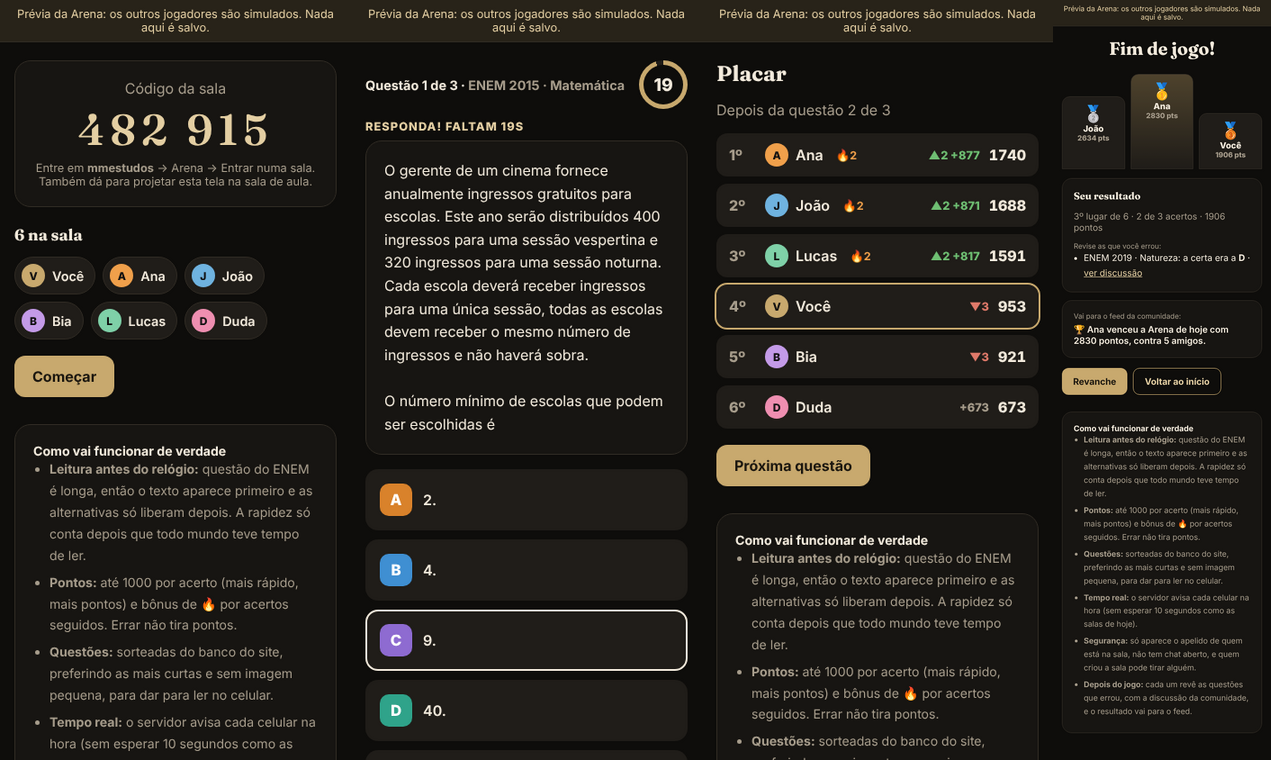
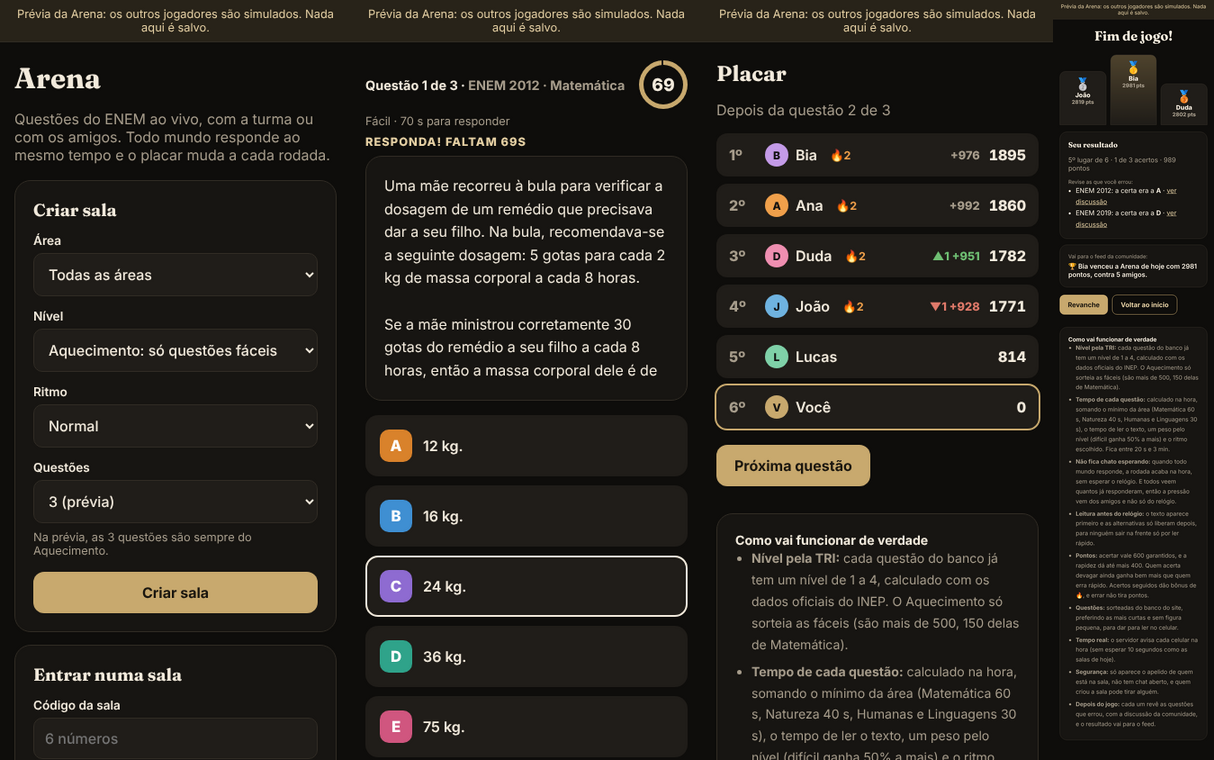
Prévia da Arena: nível da sala e tempo calculado por questão
Matemática não cabe em 20 s. Cada questão ganha o mínimo da área, o tempo de
leitura do texto, um peso pelo nível da TRI e o ritmo escolhido (entre 20 s e
3 min); a sala escolhe o nível (Aquecimento só sorteia as fáceis). Acertar
vale 600 garantidos e a rapidez até 400, e a rodada termina quando todos
respondem.

Claude-Session: https://claude.ai/code/session_01MWXuw9pU2khdgNZApLfixD

diff --git a/previa-arena.html b/previa-arena.html
@@ -44,6 +44,9 @@
     background: conic-gradient(var(--marca) calc(var(--p) * 1%), var(--superficie-2) 0); position: relative; }
   .relogio::before { content: ''; position: absolute; inset: 5px; border-radius: 50%; background: var(--fundo); }
   .relogio span { position: relative; }
+  .relogio.acabando { background: conic-gradient(var(--ruim) calc(var(--p) * 1%), var(--superficie-2) 0); animation: pulsa 1s infinite; }
+  .relogio.acabando span { color: var(--ruim); }
+  @keyframes pulsa { 50% { transform: scale(1.08); } }
   .fase { font-size: .8rem; text-transform: uppercase; letter-spacing: .08em; color: var(--marca-texto); font-weight: 800; }
   .enunciado { line-height: 1.6; white-space: pre-wrap; }
   .alts { display: grid; gap: 10px; margin-top: 16px; }
@@ -95,8 +98,21 @@
         <h2 style="font-size:1.2rem">Criar sala</h2>
         <label class="campo" for="area">Área</label>
         <select id="area"><option>Todas as áreas</option><option>Linguagens</option><option>Ciências Humanas</option><option>Ciências da Natureza</option><option>Matemática</option></select>
+        <label class="campo" for="nivel">Nível</label>
+        <select id="nivel">
+          <option value="aquecimento">Aquecimento: só questões fáceis</option>
+          <option value="normal">Normal: fáceis e médias</option>
+          <option value="desafio">Desafio: médias e difíceis</option>
+        </select>
+        <label class="campo" for="ritmo">Ritmo</label>
+        <select id="ritmo">
+          <option value="tranquilo">Tranquilo: 50% mais tempo</option>
+          <option value="normal" selected>Normal</option>
+          <option value="relampago">Relâmpago: menos tempo, mais pressão</option>
+        </select>
         <label class="campo" for="qtd">Questões</label>
         <select id="qtd"><option>3 (prévia)</option><option>5</option><option>10</option></select>
+        <p class="fraco pequeno" style="margin:8px 0 0">Na prévia, as 3 questões são sempre do Aquecimento.</p>
         <button class="botao" style="width:100%;margin-top:16px" onclick="criarSala()">Criar sala</button>
       </div>
       <div class="cartao">
@@ -127,6 +143,7 @@
       <span>Questão <span id="q-num">1</span> de <span id="q-tot">3</span> · <span class="fraco" id="q-orig"></span></span>
       <div class="relogio" id="relogio" style="--p:100"><span id="segundos">20</span></div>
     </div>
+    <div class="fraco pequeno" id="q-nivel" style="margin:-6px 0 8px"></div>
     <div class="fase" id="fase">Leitura</div>
     <div class="cartao" style="margin-top:8px"><div class="enunciado" id="enunciado"></div></div>
     <div class="alts" id="alts"></div>
@@ -164,9 +181,12 @@
   <div class="notas cartao" style="margin-top:30px">
     <b>Como vai funcionar de verdade</b>
     <ul class="lista fraco">
-      <li><b>Leitura antes do relógio:</b> questão do ENEM é longa, então o texto aparece primeiro e as alternativas só liberam depois. A rapidez só conta depois que todo mundo teve tempo de ler.</li>
-      <li><b>Pontos:</b> até 1000 por acerto (mais rápido, mais pontos) e bônus de 🔥 por acertos seguidos. Errar não tira pontos.</li>
-      <li><b>Questões:</b> sorteadas do banco do site, preferindo as mais curtas e sem imagem pequena, para dar para ler no celular.</li>
+      <li><b>Nível pela TRI:</b> cada questão do banco já tem um nível de 1 a 4, calculado com os dados oficiais do INEP. O Aquecimento só sorteia as fáceis (são mais de 500, 150 delas de Matemática).</li>
+      <li><b>Tempo de cada questão:</b> calculado na hora, somando o mínimo da área (Matemática 60 s, Natureza 40 s, Humanas e Linguagens 30 s), o tempo de ler o texto, um peso pelo nível (difícil ganha 50% a mais) e o ritmo escolhido. Fica entre 20 s e 3 min.</li>
+      <li><b>Não fica chato esperando:</b> quando todo mundo responde, a rodada acaba na hora, sem esperar o relógio. E todos veem quantos já responderam, então a pressão vem dos amigos e não só do relógio.</li>
+      <li><b>Leitura antes do relógio:</b> o texto aparece primeiro e as alternativas só liberam depois, para ninguém sair na frente só por ler rápido.</li>
+      <li><b>Pontos:</b> acertar vale 600 garantidos, e a rapidez dá até mais 400. Quem acerta devagar ainda ganha bem mais que quem erra rápido. Acertos seguidos dão bônus de 🔥, e errar não tira pontos.</li>
+      <li><b>Questões:</b> sorteadas do banco do site, preferindo as mais curtas e sem figura pequena, para dar para ler no celular.</li>
       <li><b>Tempo real:</b> o servidor avisa cada celular na hora (sem esperar 10 segundos como as salas de hoje).</li>
       <li><b>Segurança:</b> só aparece o apelido de quem está na sala, não tem chat aberto, e quem criou a sala pode tirar alguém.</li>
       <li><b>Depois do jogo:</b> cada um revê as questões que errou, com a discussão da comunidade, e o resultado vai para o feed.</li>
@@ -178,22 +198,37 @@
 const LETRAS = ['A', 'B', 'C', 'D', 'E'];
 const CORES = ['var(--a)', 'var(--b)', 'var(--c)', 'var(--d)', 'var(--e)'];
 const QUESTOES = [
-  { origem: 'ENEM 2015 · Matemática', correta: 2,
-    texto: 'O gerente de um cinema fornece anualmente ingressos gratuitos para escolas. Este ano serão distribuídos 400 ingressos para uma sessão vespertina e 320 ingressos para uma sessão noturna. Cada escola deverá receber ingressos para uma única sessão, todas as escolas devem receber o mesmo número de ingressos e não haverá sobra.\n\nO número mínimo de escolas que podem ser escolhidas é',
-    alts: ['2.', '4.', '9.', '40.', '80.'] },
-  { origem: 'ENEM 2019 · Natureza', correta: 3,
+  { origem: 'ENEM 2012', area: 'matematica', nivel: 1, correta: 0,
+    texto: 'Uma mãe recorreu à bula para verificar a dosagem de um remédio que precisava dar a seu filho. Na bula, recomendava-se a seguinte dosagem: 5 gotas para cada 2 kg de massa corporal a cada 8 horas.\n\nSe a mãe ministrou corretamente 30 gotas do remédio a seu filho a cada 8 horas, então a massa corporal dele é de',
+    alts: ['12 kg.', '16 kg.', '24 kg.', '36 kg.', '75 kg.'] },
+  { origem: 'ENEM 2019', area: 'natureza', nivel: 1, correta: 3,
     texto: 'Um alimento orgânico deve apresentar em sua embalagem o selo de uma instituição certificadora, garantindo que, além de ser isento de agrotóxicos, é produzido com técnicas planejadas e controladas.\n\nNesse sistema de produção de alimentos vegetais, o controle de insetos é manejado por meio do(a)',
     alts: ['prática de adubação verde.', 'emprego da compostagem.', 'controle da irrigação do solo.', 'utilização de predadores naturais.', 'uso de sementes inoculadas com Rhizobium.'] },
-  { origem: 'ENEM 2020 · Matemática', correta: 4,
-    texto: 'Um pé de eucalipto rende, em média, 20 mil folhas de papel A4. A densidade superficial do papel A4 é de 75 gramas por metro quadrado, e a área de uma folha é 0,062 metro quadrado.\n\nQuantos quilogramas de papel rende, em média, um pé de eucalipto?',
-    alts: ['4 301', '1 500', '930', '267', '93'] }
+  { origem: 'ENEM 2022', area: 'matematica', nivel: 1, correta: 4,
+    texto: 'Ao escutar a notícia de que um filme recém-lançado arrecadou, no primeiro mês de lançamento, R$ 1,35 bilhão em bilheteria, um estudante escreveu corretamente o número que representa essa quantia, com todos os seus algarismos.\n\nO número escrito pelo estudante foi',
+    alts: ['135 000,00.', '1 350 000,00.', '13 500 000,00.', '135 000 000,00.', '1 350 000 000,00.'] }
 ];
+const AREAS = { linguagens: ['Linguagens', 30], humanas: ['Humanas', 30], natureza: ['Natureza', 40], matematica: ['Matemática', 60] };
+const NIVEIS = { 1: ['Fácil', 1], 2: ['Média', 1.25], 3: ['Difícil', 1.5], 4: ['Muito difícil', 1.75] };
+const RITMOS = { tranquilo: 1.5, normal: 1, relampago: 0.6 };
+
+// Tempo para responder: o mínimo da área (Matemática precisa de conta),
+// mais o tempo de ler o texto, vezes o peso do nível e o ritmo da sala.
+// Arredonda para 5 s e fica entre 20 s e 3 min.
+function tempoDaQuestao(q) {
+  const ritmo = RITMOS[document.getElementById('ritmo').value] || 1;
+  const leitura = (q.texto.length + q.alts.join('').length) / 40;
+  const s = (AREAS[q.area][1] + leitura) * NIVEIS[q.nivel][1] * ritmo;
+  return Math.min(180, Math.max(20, Math.round(s / 5) * 5));
+}
+// Leitura antes das alternativas: o bastante para ler o enunciado.
+const leituraDaQuestao = q => Math.min(15, Math.max(5, Math.round(q.texto.length / 30)));
 const BOTS = [
   { nome: 'Ana', cor: '#f0a04b', acerto: .85, rapidez: .8 }, { nome: 'João', cor: '#6fb3e0', acerto: .7, rapidez: .6 },
   { nome: 'Bia', cor: '#c49be8', acerto: .6, rapidez: .9 }, { nome: 'Lucas', cor: '#7fd1a8', acerto: .5, rapidez: .5 },
   { nome: 'Duda', cor: '#ef8fb1', acerto: .65, rapidez: .4 }
 ];
-const LEITURA = 6, RESPOSTA = 20;
+let tempoRodada = 30;
 let jogadores, rodada, relogio, minhaResposta, inicioResposta, ordemAnterior, erradas;
 
 function mostrar(id) {
@@ -239,13 +274,15 @@ function proximaRodada() {
   jogadores.forEach(j => { j.resposta = null; j.tempo = null; j.ganhou = 0; });
   document.getElementById('q-num').textContent = rodada + 1;
   document.getElementById('q-tot').textContent = QUESTOES.length;
-  document.getElementById('q-orig').textContent = q.origem;
+  tempoRodada = tempoDaQuestao(q);
+  document.getElementById('q-orig').textContent = `${q.origem} · ${AREAS[q.area][0]}`;
+  document.getElementById('q-nivel').textContent = `${NIVEIS[q.nivel][0]} · ${tempoRodada} s para responder`;
   document.getElementById('enunciado').textContent = q.texto;
   document.getElementById('retorno').innerHTML = '';
   document.getElementById('responderam').textContent = '';
   desenharAlts(true);
   mostrar('t-questao');
-  contar(LEITURA, 'Leitura: as alternativas liberam em', () => abrirResposta());
+  contar(leituraDaQuestao(q), 'Leitura: as alternativas liberam em', () => abrirResposta());
 }
 
 function desenharAlts(travadas) {
@@ -262,6 +299,7 @@ function contar(total, rotulo, fim) {
     document.getElementById('segundos').textContent = resta;
     document.getElementById('relogio').style.setProperty('--p', (resta / total) * 100);
     document.getElementById('fase').textContent = `${rotulo} ${resta}s`;
+    document.getElementById('relogio').classList.toggle('acabando', rotulo.startsWith('Responda') && resta <= 10);
     if (resta-- <= 0) { clearInterval(relogio); fim(); }
   };
   passo();
@@ -274,14 +312,14 @@ function abrirResposta() {
   const q = QUESTOES[rodada];
   // Os simulados respondem em momentos diferentes.
   jogadores.filter(j => !j.eu).forEach(j => {
-    const tempo = (1 - j.rapidez) * 14 + Math.random() * 5 + 1.5;
+    const tempo = tempoRodada * (0.15 + (1 - j.rapidez) * 0.35 + Math.random() * 0.15);
     setTimeout(() => {
       if (rodada < 0 || j.resposta !== null) return;
       j.resposta = Math.random() < j.acerto ? q.correta : (q.correta + 1 + Math.floor(Math.random() * 4)) % 5;
       j.tempo = tempo; contarRespostas();
     }, tempo * 1000);
   });
-  contar(RESPOSTA, 'Responda! Faltam', encerrarRodada);
+  contar(tempoRodada, 'Responda! Faltam', encerrarRodada);
 }
 
 function contarRespostas() {
@@ -307,7 +345,8 @@ function encerrarRodada() {
   jogadores.forEach(j => {
     if (j.resposta === q.correta) {
       j.seguidas++;
-      j.ganhou = Math.round(500 + 500 * Math.max(0, 1 - j.tempo / RESPOSTA)) + (j.seguidas >= 2 ? 100 * (j.seguidas - 1) : 0);
+      // Acertar vale mais que ser rápido: 600 garantidos + até 400 pela rapidez.
+      j.ganhou = Math.round(600 + 400 * Math.max(0, 1 - j.tempo / tempoRodada)) + (j.seguidas >= 2 ? 100 * (j.seguidas - 1) : 0);
       j.pts += j.ganhou;
     } else { j.seguidas = 0; j.ganhou = 0; }
   });
